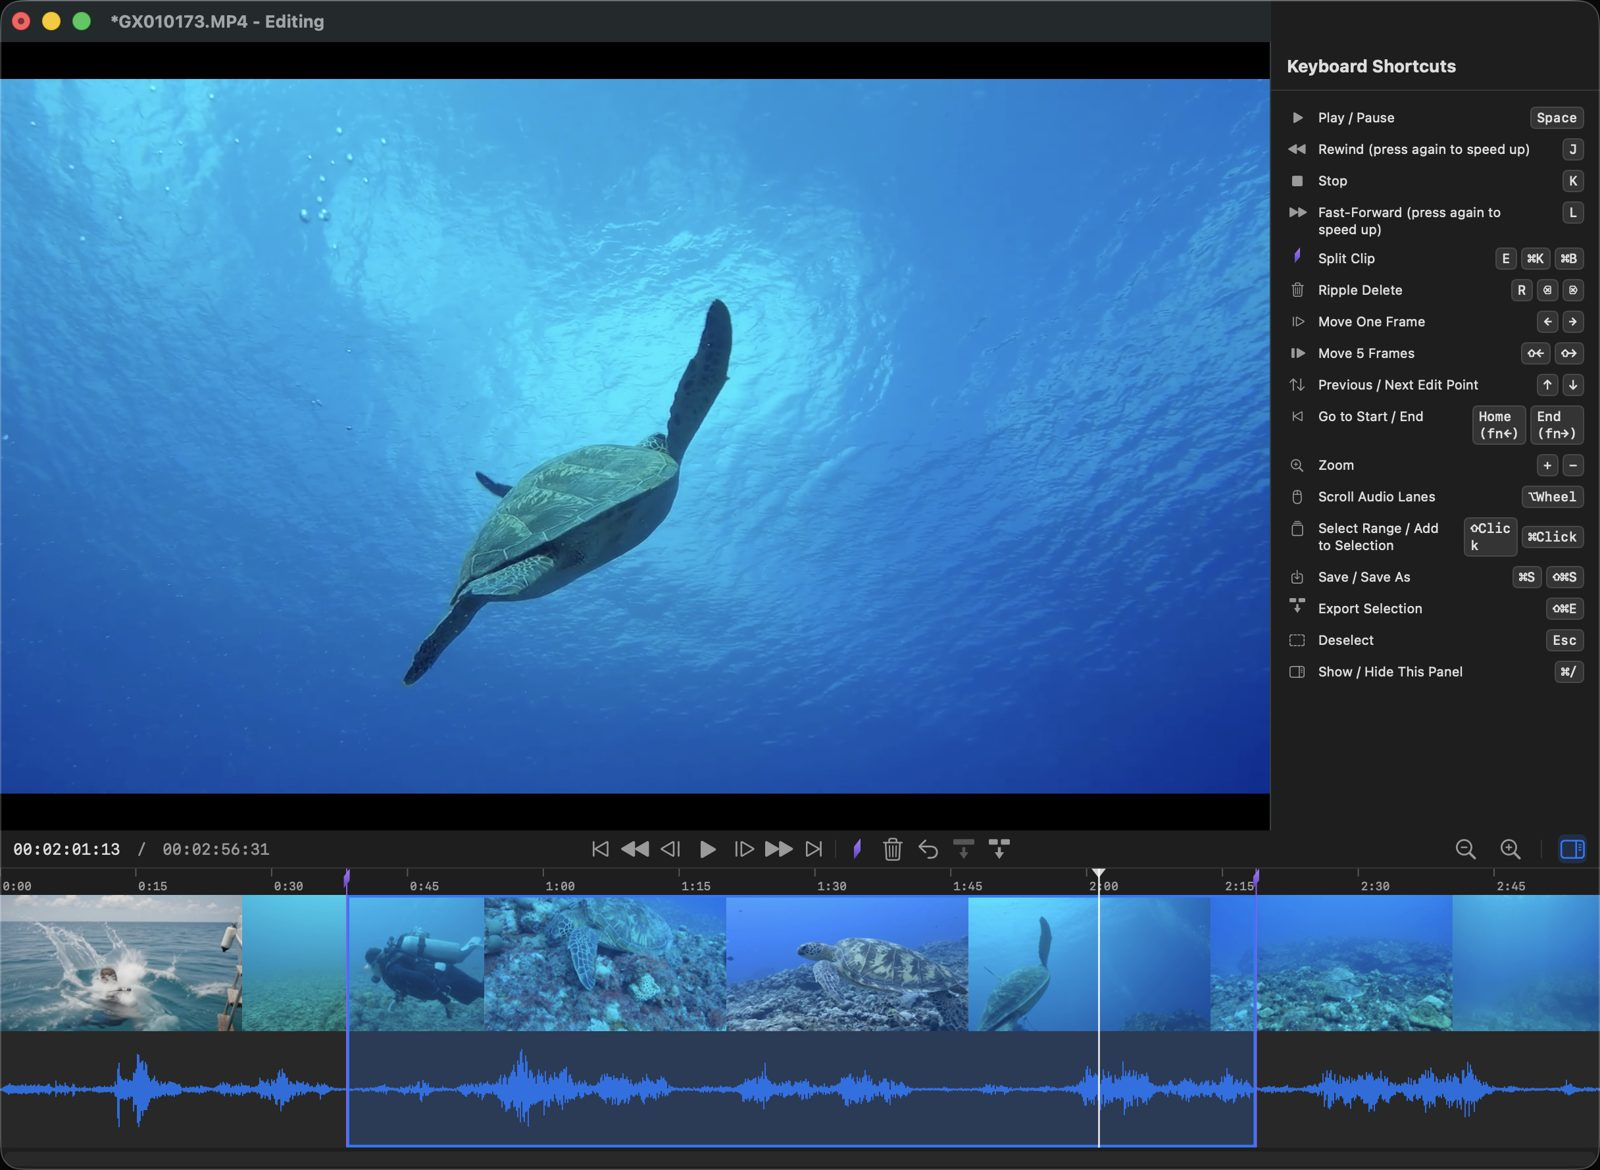
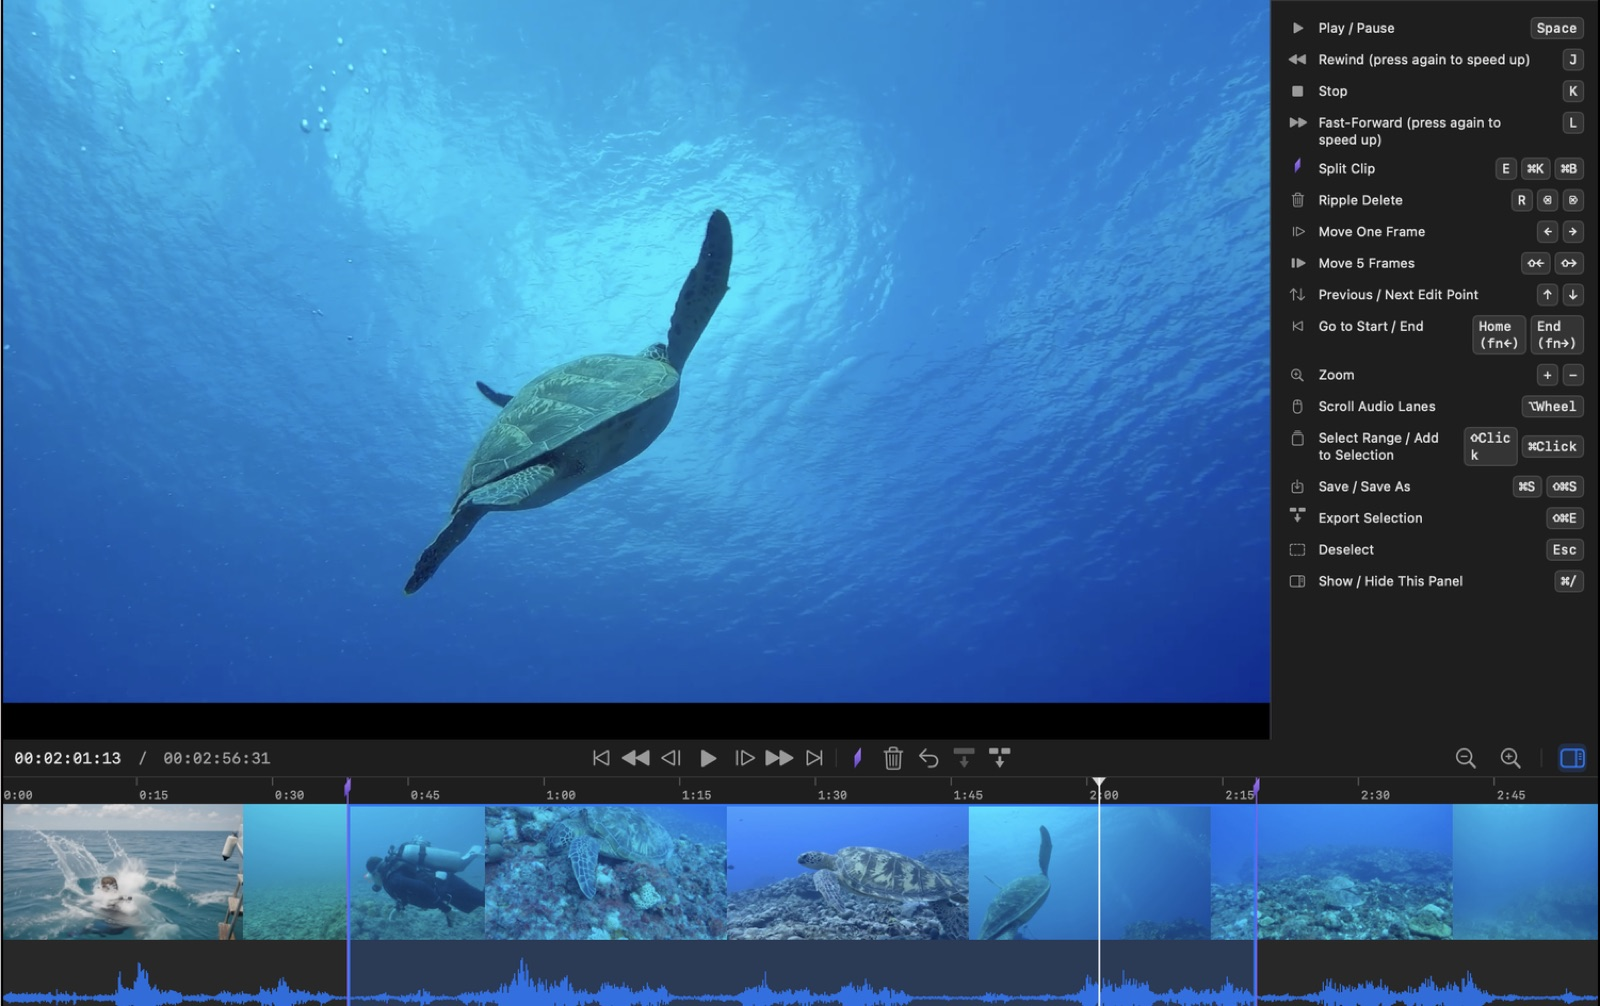
LPの全言語UIキャプチャを小さめウィンドウで統一

diff --git a/ko/index.html b/ko/index.html
@@ -7,7 +7,7 @@
 <meta name="description" content="동영상 자르기에 무거운 편집 프로그램은 필요 없습니다 열어서 자르고 저장. 재인코딩은 하지 않습니다">
 <meta property="og:title" content="QuickCut for Mac — 모든 게 빠른 동영상 자르기 앱">
 <meta property="og:description" content="동영상 자르기에 무거운 편집 프로그램은 필요 없습니다 열어서 자르고 저장. 재인코딩은 하지 않습니다">
-<meta property="og:image" content="https://nbashohei.github.io/quickcut-info/assets/screenshot-en.jpg">
+<meta property="og:image" content="https://nbashohei.github.io/quickcut-info/assets/screenshot-ko.jpg">
 <meta name="theme-color" content="#111113">
 <meta name="apple-mobile-web-app-title" content="QuickCut">
 <link rel="icon" href="../assets/icon-512.png">
@@ -80,7 +80,7 @@ footer { display:flex; flex-wrap:wrap; gap:8px; padding:22px 0 4px; border-top:1
     <a class="badge" href="https://apps.apple.com/app/id6787743606"><img src="../assets/badge-ko-kr.svg" alt="Mac App Store" height="60"></a>
     <p class="formats"><span aria-hidden="true"></span>지원 형식: MP4 / MOV / MKV(방송 녹화본도 그대로)</p>
   </div>
-  <div class="hero-visual"><img class="shot" src="../assets/screenshot-en.jpg" alt="QuickCut" width="1600" loading="eager"></div>
+  <div class="hero-visual"><img class="shot" src="../assets/screenshot-ko.jpg" alt="QuickCut" width="1600" loading="eager"></div>
 </header>
 <div class="section-heading"><span></span><h2>편집 프로그램에 넣기 전, 필요한 부분만</h2></div>
 <ul class="features">
@@ -109,7 +109,7 @@ footer { display:flex; flex-wrap:wrap; gap:8px; padding:22px 0 4px; border-top:1
   <div class="feature-copy"><span class="feature-number" aria-hidden="true">06</span><b>원본 파일 대치 또는 새 파일로 저장</b><span>원본 파일을 대치하면 용량도 전송 시간도 절약됩니다.</span></div>
 </li>
 </ul>
-<figure class="detail"><div><img src="../assets/screenshot2-en.jpg" alt="" width="1600" loading="lazy"></div></figure>
+<figure class="detail"><div><img src="../assets/screenshot2-ko.jpg" alt="" width="1600" loading="lazy"></div></figure>
 <div class="pricing">
   <h2>모든 기능을 무료로 체험하세요</h2>
   <p class="price">처음 20회 내보내기까지는 모든 기능을 무료로 이용할 수 있습니다. 더 필요할 때는 앱 내 일회성 구입 “QuickCut Unlimited”로 내보내기 횟수가 무제한이 됩니다. 구독은 없습니다.</p>

diff --git a/ja/index.html b/ja/index.html
@@ -7,7 +7,7 @@
 <meta name="description" content="動画を切るだけに重い編集ソフトはいらない 開いてすぐ切って無劣化のまま保存">
 <meta property="og:title" content="QuickCut for Mac — ぜんぶ速い 動画カットアプリ">
 <meta property="og:description" content="動画を切るだけに重い編集ソフトはいらない 開いてすぐ切って無劣化のまま保存">
-<meta property="og:image" content="https://nbashohei.github.io/quickcut-info/assets/screenshot-ja.png">
+<meta property="og:image" content="https://nbashohei.github.io/quickcut-info/assets/screenshot-ja.jpg">
 <meta name="theme-color" content="#111113">
 <meta name="apple-mobile-web-app-title" content="QuickCut">
 <link rel="icon" href="../assets/icon-512.png">
@@ -80,7 +80,7 @@ footer { display:flex; flex-wrap:wrap; gap:8px; padding:22px 0 4px; border-top:1
     <a class="badge" href="https://apps.apple.com/app/id6787743606"><img src="../assets/badge-ja-jp.svg" alt="Mac App Store" height="60"></a>
     <p class="formats"><span aria-hidden="true"></span>対応形式: mp4 / mov / mkv（配信録画もそのまま）</p>
   </div>
-  <div class="hero-visual"><img class="shot" src="../assets/screenshot-ja.png" alt="QuickCut" width="1600" loading="eager"></div>
+  <div class="hero-visual"><img class="shot" src="../assets/screenshot-ja.jpg" alt="QuickCut" width="1600" loading="eager"></div>
 </header>
 <div class="section-heading"><span></span><h2>取り込む前に 必要なところだけ</h2></div>
 <ul class="features">
@@ -109,7 +109,7 @@ footer { display:flex; flex-wrap:wrap; gap:8px; padding:22px 0 4px; border-top:1
   <div class="feature-copy"><span class="feature-number" aria-hidden="true">06</span><b>上書きと別名保存を選べる</b><span>上書きなら、容量や転送時間を節約。</span></div>
 </li>
 </ul>
-<figure class="detail"><div><img src="../assets/screenshot2-ja.png" alt="" width="1600" loading="lazy"></div></figure>
+<figure class="detail"><div><img src="../assets/screenshot2-ja.jpg" alt="" width="1600" loading="lazy"></div></figure>
 <div class="pricing">
   <h2>無料で全機能試せる</h2>
   <p class="price">書き出し20回までは、全機能を無料で利用できます。それ以降はApp内課金「QuickCut Unlimited」（¥1,800・買い切り）で、書き出し回数が無制限になります。月額料金はありません。</p>

diff --git a/fr/index.html b/fr/index.html
@@ -7,7 +7,7 @@
 <meta name="description" content="Juste couper une vidéo ? Pas besoin d’un logiciel de montage. Ouvrez, coupez, enregistrez. Sans réencodage.">
 <meta property="og:title" content="QuickCut for Mac — Rapide de bout en bout Couper, rien d’autre">
 <meta property="og:description" content="Juste couper une vidéo ? Pas besoin d’un logiciel de montage. Ouvrez, coupez, enregistrez. Sans réencodage.">
-<meta property="og:image" content="https://nbashohei.github.io/quickcut-info/assets/screenshot-en.jpg">
+<meta property="og:image" content="https://nbashohei.github.io/quickcut-info/assets/screenshot-fr.jpg">
 <meta name="theme-color" content="#111113">
 <meta name="apple-mobile-web-app-title" content="QuickCut">
 <link rel="icon" href="../assets/icon-512.png">
@@ -80,7 +80,7 @@ footer { display:flex; flex-wrap:wrap; gap:8px; padding:22px 0 4px; border-top:1
     <a class="badge" href="https://apps.apple.com/app/id6787743606"><img src="../assets/badge-fr-fr.svg" alt="Mac App Store" height="60"></a>
     <p class="formats"><span aria-hidden="true"></span>Formats : MP4 / MOV / MKV (enregistrements de stream inclus)</p>
   </div>
-  <div class="hero-visual"><img class="shot" src="../assets/screenshot-en.jpg" alt="QuickCut" width="1600" loading="eager"></div>
+  <div class="hero-visual"><img class="shot" src="../assets/screenshot-fr.jpg" alt="QuickCut" width="1600" loading="eager"></div>
 </header>
 <div class="section-heading"><span></span><h2>Coupez avant d’importer</h2></div>
 <ul class="features">
@@ -109,7 +109,7 @@ footer { display:flex; flex-wrap:wrap; gap:8px; padding:22px 0 4px; border-top:1
   <div class="feature-copy"><span class="feature-number" aria-hidden="true">06</span><b>Remplacer ou nouveau fichier</b><span>Remplacer l’original économise de l’espace et du temps de transfert.</span></div>
 </li>
 </ul>
-<figure class="detail"><div><img src="../assets/screenshot2-en.jpg" alt="" width="1600" loading="lazy"></div></figure>
+<figure class="detail"><div><img src="../assets/screenshot2-fr.jpg" alt="" width="1600" loading="lazy"></div></figure>
 <div class="pricing">
   <h2>Essayez toutes les fonctions gratuitement</h2>
   <p class="price">Utilisez toutes les fonctions gratuitement pour vos 20 premières exportations. Ensuite, l’achat intégré unique « QuickCut Unlimited » débloque les exportations illimitées. Sans abonnement.</p>

diff --git a/es/index.html b/es/index.html
@@ -7,7 +7,7 @@
 <meta name="description" content="Para cortar un vídeo no hace falta un editor completo. Ábrelo, corta y guarda. Nada se recodifica.">
 <meta property="og:title" content="QuickCut for Mac — Rápido en todo Solo para cortar vídeo">
 <meta property="og:description" content="Para cortar un vídeo no hace falta un editor completo. Ábrelo, corta y guarda. Nada se recodifica.">
-<meta property="og:image" content="https://nbashohei.github.io/quickcut-info/assets/screenshot-en.jpg">
+<meta property="og:image" content="https://nbashohei.github.io/quickcut-info/assets/screenshot-es.jpg">
 <meta name="theme-color" content="#111113">
 <meta name="apple-mobile-web-app-title" content="QuickCut">
 <link rel="icon" href="../assets/icon-512.png">
@@ -80,7 +80,7 @@ footer { display:flex; flex-wrap:wrap; gap:8px; padding:22px 0 4px; border-top:1
     <a class="badge" href="https://apps.apple.com/app/id6787743606"><img src="../assets/badge-es-es.svg" alt="Mac App Store" height="60"></a>
     <p class="formats"><span aria-hidden="true"></span>MP4 / MOV / MKV, grabaciones de streaming incluidas</p>
   </div>
-  <div class="hero-visual"><img class="shot" src="../assets/screenshot-en.jpg" alt="QuickCut" width="1600" loading="eager"></div>
+  <div class="hero-visual"><img class="shot" src="../assets/screenshot-es.jpg" alt="QuickCut" width="1600" loading="eager"></div>
 </header>
 <div class="section-heading"><span></span><h2>Corta antes de importar</h2></div>
 <ul class="features">
@@ -109,7 +109,7 @@ footer { display:flex; flex-wrap:wrap; gap:8px; padding:22px 0 4px; border-top:1
   <div class="feature-copy"><span class="feature-number" aria-hidden="true">06</span><b>Reemplazar o guardar como nuevo</b><span>Reemplazar ahorra espacio y tiempo de transferencia.</span></div>
 </li>
 </ul>
-<figure class="detail"><div><img src="../assets/screenshot2-en.jpg" alt="" width="1600" loading="lazy"></div></figure>
+<figure class="detail"><div><img src="../assets/screenshot2-es.jpg" alt="" width="1600" loading="lazy"></div></figure>
 <div class="pricing">
   <h2>Prueba todas las funciones gratis</h2>
   <p class="price">Usa todas las funciones gratis en tus primeras 20 exportaciones. Cuando necesites más, la compra única dentro de la app “QuickCut Unlimited” desbloquea exportaciones ilimitadas. Sin suscripción.</p>

diff --git a/de/index.html b/de/index.html
@@ -7,7 +7,7 @@
 <meta name="description" content="Nur ein Video kürzen? Dafür braucht es kein Schnittprogramm. Öffnen, schneiden, sichern. Ohne Neucodierung.">
 <meta property="og:title" content="QuickCut for Mac — Alles geht schnell Schneiden, sonst nichts">
 <meta property="og:description" content="Nur ein Video kürzen? Dafür braucht es kein Schnittprogramm. Öffnen, schneiden, sichern. Ohne Neucodierung.">
-<meta property="og:image" content="https://nbashohei.github.io/quickcut-info/assets/screenshot-en.jpg">
+<meta property="og:image" content="https://nbashohei.github.io/quickcut-info/assets/screenshot-de.jpg">
 <meta name="theme-color" content="#111113">
 <meta name="apple-mobile-web-app-title" content="QuickCut">
 <link rel="icon" href="../assets/icon-512.png">
@@ -80,7 +80,7 @@ footer { display:flex; flex-wrap:wrap; gap:8px; padding:22px 0 4px; border-top:1
     <a class="badge" href="https://apps.apple.com/app/id6787743606"><img src="../assets/badge-de-de.svg" alt="Mac App Store" height="60"></a>
     <p class="formats"><span aria-hidden="true"></span>Formate: MP4 / MOV / MKV (auch Stream-Aufnahmen)</p>
   </div>
-  <div class="hero-visual"><img class="shot" src="../assets/screenshot-en.jpg" alt="QuickCut" width="1600" loading="eager"></div>
+  <div class="hero-visual"><img class="shot" src="../assets/screenshot-de.jpg" alt="QuickCut" width="1600" loading="eager"></div>
 </header>
 <div class="section-heading"><span></span><h2>Erst schneiden, dann importieren</h2></div>
 <ul class="features">
@@ -109,7 +109,7 @@ footer { display:flex; flex-wrap:wrap; gap:8px; padding:22px 0 4px; border-top:1
   <div class="feature-copy"><span class="feature-number" aria-hidden="true">06</span><b>Ersetzen oder als neue Datei sichern</b><span>Ersetzen spart Speicherplatz und Kopierzeit.</span></div>
 </li>
 </ul>
-<figure class="detail"><div><img src="../assets/screenshot2-en.jpg" alt="" width="1600" loading="lazy"></div></figure>
+<figure class="detail"><div><img src="../assets/screenshot2-de.jpg" alt="" width="1600" loading="lazy"></div></figure>
 <div class="pricing">
   <h2>Alle Funktionen gratis testen</h2>
   <p class="price">Alle Funktionen sind für die ersten 20 Exporte kostenlos. Danach schaltet der einmalige In-App-Kauf „QuickCut Unlimited“ unbegrenzte Exporte frei. Kein Abo.</p>

diff --git a/pt-br/index.html b/pt-br/index.html
@@ -7,7 +7,7 @@
 <meta name="description" content="Cortar um vídeo não exige um editor completo. Abra, corte e salve. Nada é recodificado.">
 <meta property="og:title" content="QuickCut for Mac — Rápido em tudo Só para cortar vídeo">
 <meta property="og:description" content="Cortar um vídeo não exige um editor completo. Abra, corte e salve. Nada é recodificado.">
-<meta property="og:image" content="https://nbashohei.github.io/quickcut-info/assets/screenshot-en.jpg">
+<meta property="og:image" content="https://nbashohei.github.io/quickcut-info/assets/screenshot-pt-br.jpg">
 <meta name="theme-color" content="#111113">
 <meta name="apple-mobile-web-app-title" content="QuickCut">
 <link rel="icon" href="../assets/icon-512.png">
@@ -80,7 +80,7 @@ footer { display:flex; flex-wrap:wrap; gap:8px; padding:22px 0 4px; border-top:1
     <a class="badge" href="https://apps.apple.com/app/id6787743606"><img src="../assets/badge-pt-br.svg" alt="Mac App Store" height="60"></a>
     <p class="formats"><span aria-hidden="true"></span>MP4 / MOV / MKV, inclusive gravações de lives</p>
   </div>
-  <div class="hero-visual"><img class="shot" src="../assets/screenshot-en.jpg" alt="QuickCut" width="1600" loading="eager"></div>
+  <div class="hero-visual"><img class="shot" src="../assets/screenshot-pt-br.jpg" alt="QuickCut" width="1600" loading="eager"></div>
 </header>
 <div class="section-heading"><span></span><h2>Corte antes de importar</h2></div>
 <ul class="features">
@@ -109,7 +109,7 @@ footer { display:flex; flex-wrap:wrap; gap:8px; padding:22px 0 4px; border-top:1
   <div class="feature-copy"><span class="feature-number" aria-hidden="true">06</span><b>Substituir ou salvar como novo</b><span>Substituir economiza espaço e tempo de transferência.</span></div>
 </li>
 </ul>
-<figure class="detail"><div><img src="../assets/screenshot2-en.jpg" alt="" width="1600" loading="lazy"></div></figure>
+<figure class="detail"><div><img src="../assets/screenshot2-pt-br.jpg" alt="" width="1600" loading="lazy"></div></figure>
 <div class="pricing">
   <h2>Experimente todos os recursos grátis</h2>
   <p class="price">Use todos os recursos de graça nas primeiras 20 exportações. Quando precisar de mais, a compra única dentro do app “QuickCut Unlimited” libera exportações ilimitadas. Sem assinatura.</p>

diff --git a/it/index.html b/it/index.html
@@ -7,7 +7,7 @@
 <meta name="description" content="Per tagliare un video non serve un editor completo. Apri, taglia e salva. Niente ricodifica.">
 <meta property="og:title" content="QuickCut for Mac — Veloce in tutto Solo per tagliare video">
 <meta property="og:description" content="Per tagliare un video non serve un editor completo. Apri, taglia e salva. Niente ricodifica.">
-<meta property="og:image" content="https://nbashohei.github.io/quickcut-info/assets/screenshot-en.jpg">
+<meta property="og:image" content="https://nbashohei.github.io/quickcut-info/assets/screenshot-it.jpg">
 <meta name="theme-color" content="#111113">
 <meta name="apple-mobile-web-app-title" content="QuickCut">
 <link rel="icon" href="../assets/icon-512.png">
@@ -80,7 +80,7 @@ footer { display:flex; flex-wrap:wrap; gap:8px; padding:22px 0 4px; border-top:1
     <a class="badge" href="https://apps.apple.com/app/id6787743606"><img src="../assets/badge-it-it.svg" alt="Mac App Store" height="60"></a>
     <p class="formats"><span aria-hidden="true"></span>MP4 / MOV / MKV, registrazioni di streaming comprese</p>
   </div>
-  <div class="hero-visual"><img class="shot" src="../assets/screenshot-en.jpg" alt="QuickCut" width="1600" loading="eager"></div>
+  <div class="hero-visual"><img class="shot" src="../assets/screenshot-it.jpg" alt="QuickCut" width="1600" loading="eager"></div>
 </header>
 <div class="section-heading"><span></span><h2>Taglia prima di importare</h2></div>
 <ul class="features">
@@ -109,7 +109,7 @@ footer { display:flex; flex-wrap:wrap; gap:8px; padding:22px 0 4px; border-top:1
   <div class="feature-copy"><span class="feature-number" aria-hidden="true">06</span><b>Sostituisci o salva come nuovo</b><span>Sostituire risparmia spazio e tempo di copia.</span></div>
 </li>
 </ul>
-<figure class="detail"><div><img src="../assets/screenshot2-en.jpg" alt="" width="1600" loading="lazy"></div></figure>
+<figure class="detail"><div><img src="../assets/screenshot2-it.jpg" alt="" width="1600" loading="lazy"></div></figure>
 <div class="pricing">
   <h2>Prova gratis tutte le funzioni</h2>
   <p class="price">Usa tutte le funzioni gratis per le prime 20 esportazioni. Quando ti serve di più, l’acquisto una tantum in-app “QuickCut Unlimited” sblocca esportazioni illimitate. Nessun abbonamento.</p>

diff --git a/zh-hans/index.html b/zh-hans/index.html
@@ -7,7 +7,7 @@
 <meta name="description" content="只是剪一段视频，不需要庞大的剪辑软件。 打开、剪、保存。不重新编码。">
 <meta property="og:title" content="QuickCut for Mac — 剪视频 每一步都快">
 <meta property="og:description" content="只是剪一段视频，不需要庞大的剪辑软件。 打开、剪、保存。不重新编码。">
-<meta property="og:image" content="https://nbashohei.github.io/quickcut-info/assets/screenshot-en.jpg">
+<meta property="og:image" content="https://nbashohei.github.io/quickcut-info/assets/screenshot-zh-hans.jpg">
 <meta name="theme-color" content="#111113">
 <meta name="apple-mobile-web-app-title" content="QuickCut">
 <link rel="icon" href="../assets/icon-512.png">
@@ -80,7 +80,7 @@ footer { display:flex; flex-wrap:wrap; gap:8px; padding:22px 0 4px; border-top:1
     <a class="badge" href="https://apps.apple.com/app/id6787743606"><img src="../assets/badge-zh-cn.svg" alt="Mac App Store" height="60"></a>
     <p class="formats"><span aria-hidden="true"></span>格式：MP4 / MOV / MKV（直播录像也能开）</p>
   </div>
-  <div class="hero-visual"><img class="shot" src="../assets/screenshot-en.jpg" alt="QuickCut" width="1600" loading="eager"></div>
+  <div class="hero-visual"><img class="shot" src="../assets/screenshot-zh-hans.jpg" alt="QuickCut" width="1600" loading="eager"></div>
 </header>
 <div class="section-heading"><span></span><h2>先剪好 再导入</h2></div>
 <ul class="features">
@@ -109,7 +109,7 @@ footer { display:flex; flex-wrap:wrap; gap:8px; padding:22px 0 4px; border-top:1
   <div class="feature-copy"><span class="feature-number" aria-hidden="true">06</span><b>替换原文件，或存为新文件</b><span>替换原文件，省空间也省传输时间。</span></div>
 </li>
 </ul>
-<figure class="detail"><div><img src="../assets/screenshot2-en.jpg" alt="" width="1600" loading="lazy"></div></figure>
+<figure class="detail"><div><img src="../assets/screenshot2-zh-hans.jpg" alt="" width="1600" loading="lazy"></div></figure>
 <div class="pricing">
   <h2>免费试用全部功能</h2>
   <p class="price">前 20 次导出可免费使用所有功能。需要更多时，通过一次性 App 内购买“QuickCut Unlimited”即可解锁无限次导出。无需订阅。</p>

diff --git a/zh-hant/index.html b/zh-hant/index.html
@@ -7,7 +7,7 @@
 <meta name="description" content="只是剪一段影片，不需要笨重的剪輯軟體。 打開、剪、儲存。不重新編碼。">
 <meta property="og:title" content="QuickCut for Mac — 剪影片 每一步都快">
 <meta property="og:description" content="只是剪一段影片，不需要笨重的剪輯軟體。 打開、剪、儲存。不重新編碼。">
-<meta property="og:image" content="https://nbashohei.github.io/quickcut-info/assets/screenshot-en.jpg">
+<meta property="og:image" content="https://nbashohei.github.io/quickcut-info/assets/screenshot-zh-hant.jpg">
 <meta name="theme-color" content="#111113">
 <meta name="apple-mobile-web-app-title" content="QuickCut">
 <link rel="icon" href="../assets/icon-512.png">
@@ -80,7 +80,7 @@ footer { display:flex; flex-wrap:wrap; gap:8px; padding:22px 0 4px; border-top:1
     <a class="badge" href="https://apps.apple.com/app/id6787743606"><img src="../assets/badge-en-us.svg" alt="Mac App Store" height="60"></a>
     <p class="formats"><span aria-hidden="true"></span>格式：MP4 / MOV / MKV（直播錄影也能開）</p>
   </div>
-  <div class="hero-visual"><img class="shot" src="../assets/screenshot-en.jpg" alt="QuickCut" width="1600" loading="eager"></div>
+  <div class="hero-visual"><img class="shot" src="../assets/screenshot-zh-hant.jpg" alt="QuickCut" width="1600" loading="eager"></div>
 </header>
 <div class="section-heading"><span></span><h2>先剪好 再匯入</h2></div>
 <ul class="features">
@@ -109,7 +109,7 @@ footer { display:flex; flex-wrap:wrap; gap:8px; padding:22px 0 4px; border-top:1
   <div class="feature-copy"><span class="feature-number" aria-hidden="true">06</span><b>取代原檔，或另存新檔</b><span>取代原檔，省空間也省傳輸時間。</span></div>
 </li>
 </ul>
-<figure class="detail"><div><img src="../assets/screenshot2-en.jpg" alt="" width="1600" loading="lazy"></div></figure>
+<figure class="detail"><div><img src="../assets/screenshot2-zh-hant.jpg" alt="" width="1600" loading="lazy"></div></figure>
 <div class="pricing">
   <h2>免費試用所有功能</h2>
   <p class="price">前 20 次匯出可免費使用所有功能。需要更多時，透過一次性 App 內購買「QuickCut Unlimited」即可解鎖無限次匯出。不用訂閱。</p>
